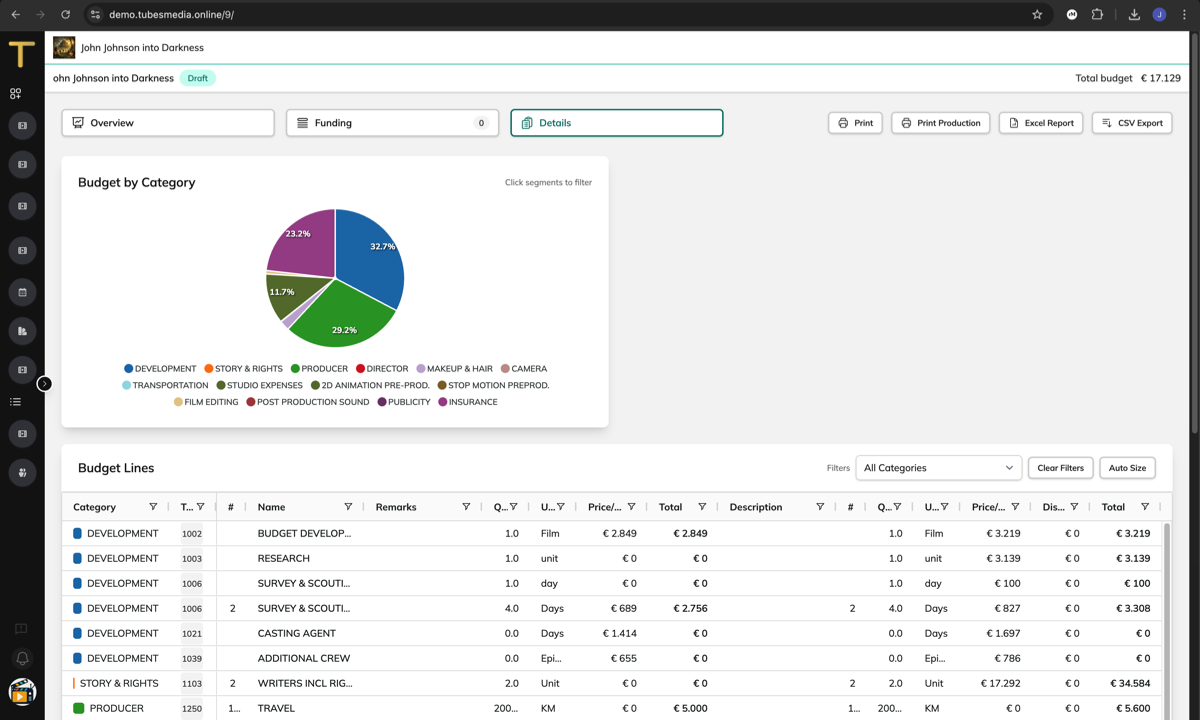
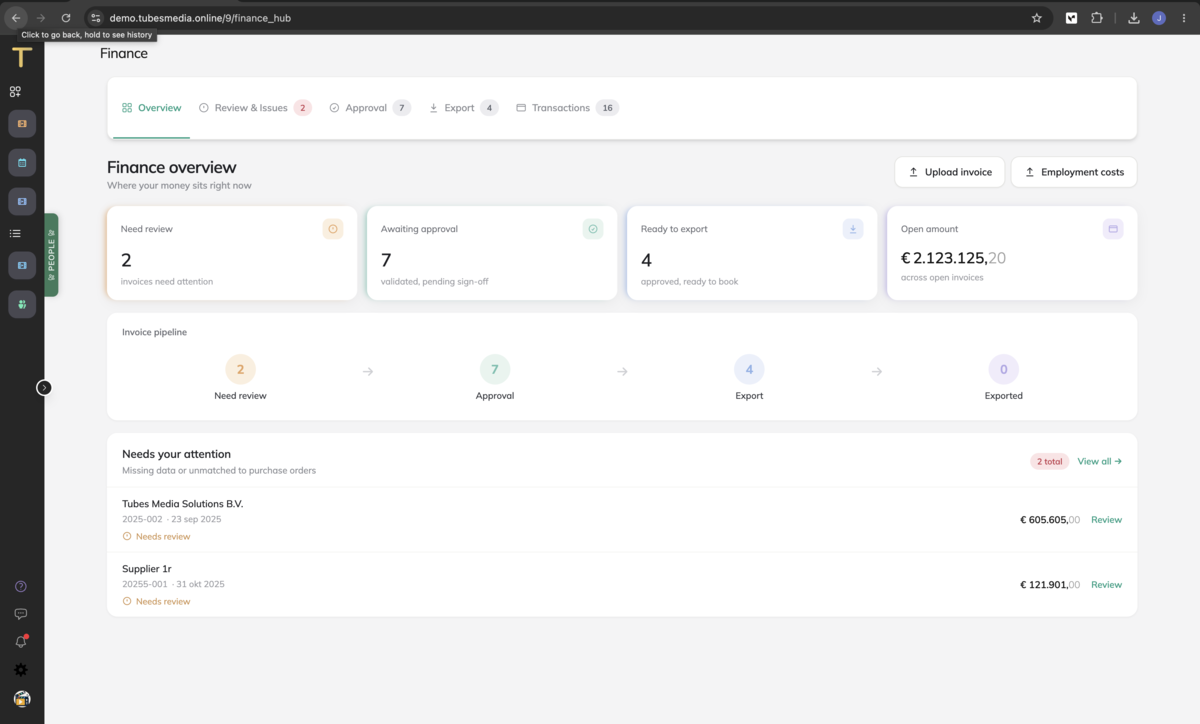
Homepage-hero: automatisch roterende screenshots
De hero-afbeelding op de homepage toont nu Dashboard, Finance en
Projects na elkaar, kruisvervagend om de ~4,5 seconden. Puur
decoratief (geen bediening), staat stil bij prefers-reduced-motion.

- hero.njk: section.images (array) naast het bestaande enkelvoudige
  section.image, met terugval voor alle andere pagina's die hero nog
  met één afbeelding gebruiken.
- imgAspect-filter (eleventy.config.js) geeft de wrapper zijn
  aspect-ratio, nodig omdat de losse slides position:absolute staan.
- site.js: nieuwe rotator, zelfde patroon als de bestaande
  chip-row-animatie.

diff --git a/src/css/style.css b/src/css/style.css
@@ -359,6 +359,27 @@ a:hover { color: var(--action); }
 .section-hero .hero-media img[src$=".jpeg"],
 .section-hero .hero-media img[src$=".jpg"] { aspect-ratio: 4 / 3; }
 
+/* Hero-rotator: meerdere screenshots kruisvervagen boven elkaar. De wrapper
+   krijgt de rotatie/hover-tilt, de losse slides alleen de opacity-overgang. */
+.section-hero .hero-media .hero-slides {
+  position: relative; z-index: 2;
+  transform: rotate(-1.2deg);
+  transition: transform 0.4s ease;
+}
+.section-hero .hero-media:hover .hero-slides { transform: rotate(0deg); }
+.section-hero .hero-media .hero-slides img {
+  position: absolute; inset: 0;
+  width: 100%; height: 100%;
+  object-fit: cover;
+  opacity: 0;
+  transform: none;
+  transition: opacity 1.1s ease;
+}
+.section-hero .hero-media .hero-slides img.is-active { opacity: 1; }
+@media (prefers-reduced-motion: reduce) {
+  .section-hero .hero-media .hero-slides img { transition: none; }
+}
+
 /* Secties zachtjes laten opkomen bij het scrollen (klasse via JS) */
 .reveal { opacity: 0; transform: translateY(20px); transition: opacity 0.55s cubic-bezier(0.2, 0.7, 0.2, 1), transform 0.55s cubic-bezier(0.2, 0.7, 0.2, 1); }
 .reveal.is-visible { opacity: 1; transform: none; }

diff --git a/eleventy.config.js b/eleventy.config.js
@@ -79,6 +79,15 @@ export default function (eleventyConfig) {
     return size ? `width="${size.width}" height="${size.height}"` : "";
   });
 
+  // Breedte/hoogte-verhouding van een afbeelding, voor de hero-rotator: de
+  // slides staan los van de documentflow (position: absolute) en de wrapper
+  // heeft daarom zelf een aspect-ratio nodig om niet in te klappen.
+  eleventyConfig.addFilter("imgAspect", (src) => {
+    if (!src || String(src).startsWith("http")) return "1200 / 724";
+    const size = imageSize(path.join("src", String(src).replace(/^\//, "")));
+    return size ? `${size.width} / ${size.height}` : "1200 / 724";
+  });
+
   // Zelfde ?v=<hash>-truc als bij CSS/JS, maar dan voor afbeeldingen: een
   // vervangen bestand (zelfde naam, nieuwe inhoud, bv. een nieuwe
   // schermafbeelding) krijgt zo een nieuwe URL en is meteen zichtbaar, ook al

diff --git a/src/js/site.js b/src/js/site.js
@@ -30,6 +30,22 @@ if (!matchMedia("(prefers-reduced-motion: reduce)").matches) {
   }
 }
 
+// Hero-rotator: meerdere screenshots kruisvervagen om de beurt (decoratief,
+// geen bediening). Staat stil bij prefers-reduced-motion: dan blijft gewoon
+// de eerste afbeelding staan.
+if (!matchMedia("(prefers-reduced-motion: reduce)").matches) {
+  for (const rotator of document.querySelectorAll("[data-hero-rotator]")) {
+    const slides = rotator.querySelectorAll(".hero-slides img");
+    if (slides.length < 2) continue;
+    let i = 0;
+    setInterval(() => {
+      slides[i].classList.remove("is-active");
+      i = (i + 1) % slides.length;
+      slides[i].classList.add("is-active");
+    }, 4500);
+  }
+}
+
 // Module-tour: tabs wisselen
 for (const tour of document.querySelectorAll("[data-tour]")) {
   const tabs = tour.querySelectorAll(".tour-tab");

diff --git a/src/content/pages/home.md b/src/content/pages/home.md
@@ -30,6 +30,13 @@ sections:
         url: /contact/
     image: /assets/images/example-tubes-01.png
     image_alt: The Tubes dashboard with projects, budgets and reporting
+    images:
+      - image: /assets/images/example-tubes-01.png
+        image_alt: The Tubes dashboard with projects, budgets and reporting
+      - image: /assets/images/example-tubes-03.png
+        image_alt: Real-time invoice pipeline and cost control in Tubes
+      - image: /assets/images/example-tubes-02.png
+        image_alt: Projects overview and pipeline in Tubes
   - type: pricing
     theme: light
     heading: Choose your plan
